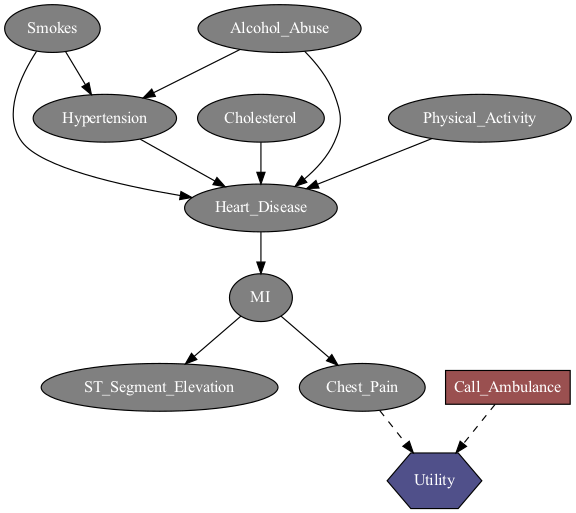
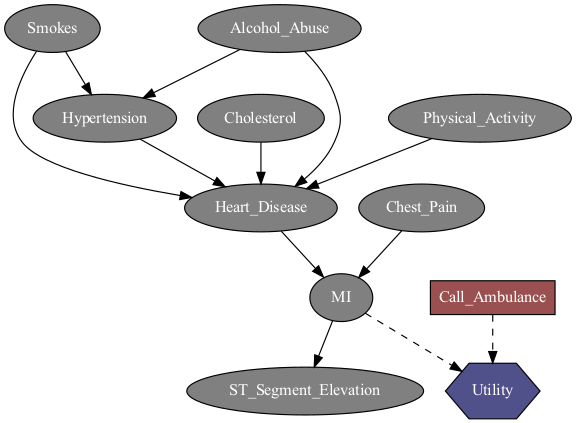
Finished model

diff --git a/src/model.py b/src/model.py
@@ -7,7 +7,7 @@ nodes=['Smokes', 'Hypertension', 'Heart_Disease', 'Cholesterol', 'Alcohol_Abuse'
 
 links = [('Smokes','Hypertension'),('Hypertension','Heart_Disease'),('Smokes','Heart_Disease'),
 ('Cholesterol','Heart_Disease'),('Alcohol_Abuse','Hypertension'),('Alcohol_Abuse','Heart_Disease'),('Physical_Activity','Heart_Disease'),
-('Heart_Disease','MI'),('MI','ST_Segment_Elevation'),('MI','Chest_Pain')]
+('Heart_Disease','MI'),('MI','ST_Segment_Elevation'),('Chest_Pain','MI')]
 
 
 def build_model():
@@ -45,10 +45,10 @@ def build_model_decision():
     
     dn.addUtilityNode(gum.LabelizedVariable("Utility","Utility",1))
    
-    links+=[("Call_Ambulance", "Utility"), ("Chest_Pain", "Utility")]
+    links+=[("Call_Ambulance", "Utility"),("MI","Utility")]
     
     for link in links:
-        #dn.addArc(dn.idFromName(link[0]),dn.idFromName(link[1]))
+        
         dn.addArc(*link)
     
     dn = addProbabilities(dn)
@@ -65,30 +65,15 @@ def build_model_decision():
     # 1 0 1
     # 1 1 0
     # 1 1 1
-    dn.utility('Utility')[{'Call_Ambulance':0, 'Chest_Pain':0}]=50    #Neutral
 
-    dn.utility('Utility')[{'Call_Ambulance':0, 'Chest_Pain':1}]= 25
+    dn.utility('Utility')[{'Call_Ambulance':0,'MI':0}]= 0   #You fine and nothing bad happens + no wasted medical resources
 
-    dn.utility('Utility')[{'Call_Ambulance':1, 'Chest_Pain':0}]= -25 #e.g. calling an ambulance for toothache/heartburn
+    #-150 working best 
+    dn.utility('Utility')[{'Call_Ambulance':0,'MI':1}]= -100   #You dead af
 
-    dn.utility('Utility')[{'Call_Ambulance':1,'Chest_Pain':1}]= 100
+    dn.utility('Utility')[{'Call_Ambulance':1,'MI':0}]= -50     #Wasted medical resources (and your own money)
 
-    # dn.utility('Utility')[{'Call_Ambulance':0,'MI':0, 'Chest_Pain':0}]=0    #Neutral
-
-    # dn.utility('Utility')[{'Call_Ambulance':0,'MI':0, 'Chest_Pain':1}] = 100
-
-    # dn.utility('Utility')[{'Call_Ambulance':0,'MI':1, 'Chest_Pain':0}]= -50  #e.g. calling an ambulance for toothache/heartburn
-
-    # dn.utility('Utility')[{'Call_Ambulance':0,'MI':1,'Chest_Pain':1}]= -100
-
-
-    # dn.utility('Utility')[{'Call_Ambulance':1,'MI':0, 'Chest_Pain':0}]= -100 
-
-    # dn.utility('Utility')[{'Call_Ambulance':1,'MI':0, 'Chest_Pain':1}]= 30
-
-    # dn.utility('Utility')[{'Call_Ambulance':1,'MI':1, 'Chest_Pain':0}]= 100
-
-    # dn.utility('Utility')[{'Call_Ambulance':1,'MI':1,'Chest_Pain':1}]= 150
+    dn.utility('Utility')[{'Call_Ambulance':1,'MI':1}]= 100     #Your life will most likely be saved
 
     dn.saveBIFXML("./output/MI_decision.bifxml")
     with open("./output/MI_decision.bifxml","r") as out:
@@ -123,15 +108,16 @@ def addProbabilities(model):
     #P(Cholestrol):
     model.cpt('Cholesterol').fillWith([0.59,0.41])
 
-
+    #P(Chest_Pain):
+    model.cpt('Chest_Pain').fillWith([0.7,0.3])
     #CPTs
     ##########
 
     #P(Hypertension | Smoking, Alcohol_Abuse):
 
     model.cpt("Hypertension")[{'Smokes':0, 'Alcohol_Abuse':0}] = [0.701, 0.299]
-    model.cpt("Hypertension")[{'Smokes':0, 'Alcohol_Abuse':1}] = [0.665, 0.335]
     model.cpt("Hypertension")[{'Smokes':1, 'Alcohol_Abuse':0}] = [0.715, 0.285]
+    model.cpt("Hypertension")[{'Smokes':0, 'Alcohol_Abuse':1}] = [0.665, 0.335]
     model.cpt("Hypertension")[{'Smokes':1, 'Alcohol_Abuse':1}] = [0.68, 0.32]
 
     #P(Heart_Disease | Hypertension, Cholesterol, Smokes, Alcohol_Abuse, Physical_Activity)
@@ -143,23 +129,25 @@ def addProbabilities(model):
 
     #P(MI | Heart_Disease):
 
-    model.cpt('MI')[{'Heart_Disease':0}] = [0.999609,1-0.999609]
-    model.cpt('MI')[{'Heart_Disease':1}] = [0.5489,0.4511]
+    # model.cpt('MI')[{'Heart_Disease':0}] = [0.999609,1-0.999609]
+    # model.cpt('MI')[{'Heart_Disease':1}] = [0.5489,0.4511]
 
     #P(ST_Segment_Elevation | MI):
 
-    model.cpt("ST_Segment_Elevation")[{'MI':0}] = [0.49,0.51]
-    model.cpt("ST_Segment_Elevation")[{'MI':1}] = [0.375,0.625]
+    model.cpt("ST_Segment_Elevation")[{'MI':0}] = [0.89,0.11]
+    model.cpt("ST_Segment_Elevation")[{'MI':1}] = [0.175,0.825]
+
+    
 
     # P(Chest Pain | MI):
 
-    model.cpt('Chest_Pain')[{'MI':0}] = [0.75,0.25]
-    model.cpt('Chest_Pain')[{'MI':1}] = [1/3,2/3]
+    # model.cpt('Chest_Pain')[{'MI':0}] = [0.75,0.25]
+    # model.cpt('Chest_Pain')[{'MI':1}] = [1/3,2/3]
 
     #P(MI | Heart_Disease, Chest_Pain):
 
 #     -|-- : 99,96% (1)
-# +|-- : 0,391%
+# +|-- : 0,4%
 
 # -|+- 54,89% (1)
 # +|+- 45,11%
@@ -170,8 +158,10 @@ def addProbabilities(model):
 # -|++ : 0.28
 # +|++ : 0.72 (2)
 
-
-
+    model.cpt("MI")[{'Heart_Disease':0, 'Chest_Pain':0}] = [0.9996, 0.0004]
+    model.cpt("MI")[{'Heart_Disease':0, 'Chest_Pain':1}] = [0.85,0.15]
+    model.cpt("MI")[{'Heart_Disease':1, 'Chest_Pain':0}] = [0.8489,0.1511]
+    model.cpt("MI")[{'Heart_Disease':1, 'Chest_Pain':1}] = [0.28,0.72]
 
     return model
 
@@ -181,6 +171,9 @@ def inference_decision(model, evidence = None):
     if ((evidence is not None) and (isinstance(evidence,dict))):
         ie.setEvidence(evidence)
     ie.makeInference()
+    for node in nodes:
+        print (ie.posterior(node))
+    print("Optimal Decision:")
     print(ie.optimalDecision("Call_Ambulance"))
 
 def inference(model, evidence = None):

diff --git a/src/wrapper.py b/src/wrapper.py
@@ -3,7 +3,11 @@ import model
 def main():
     bn = model.build_model_decision()
     
-    model.inference_decision(bn,{'Heart_Disease':0})
+    model.inference_decision(bn)
+
+    # bn = model.build_model()
+    
+    # model.inference(bn)
 
 if __name__ == "__main__":
     main()
